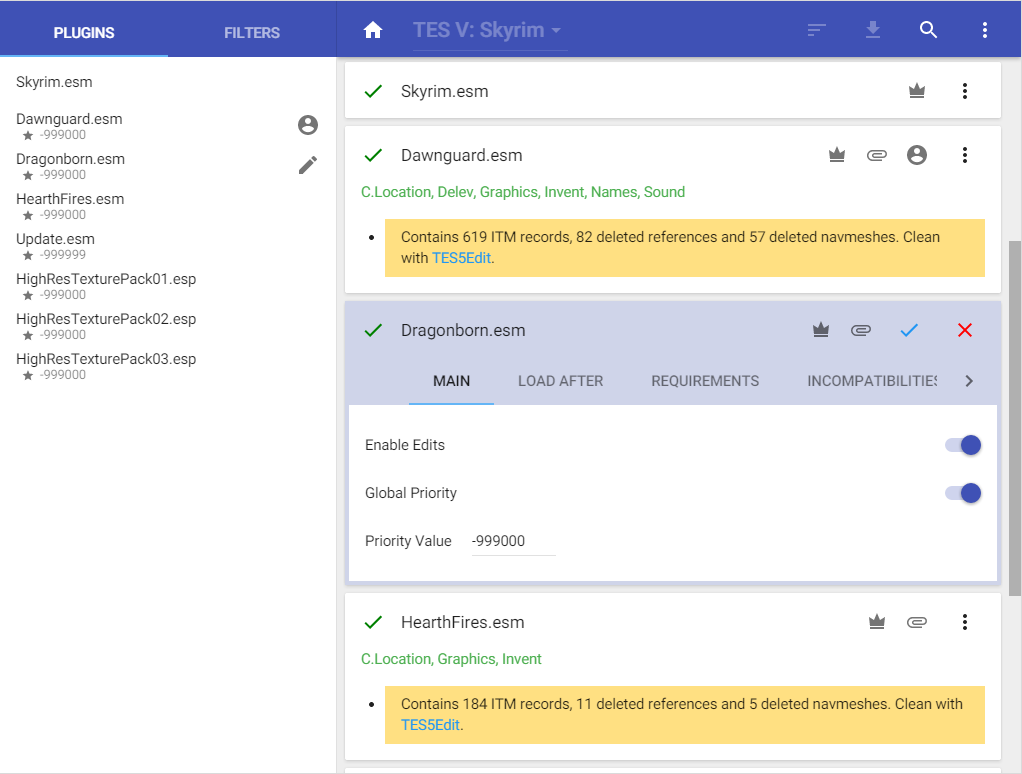
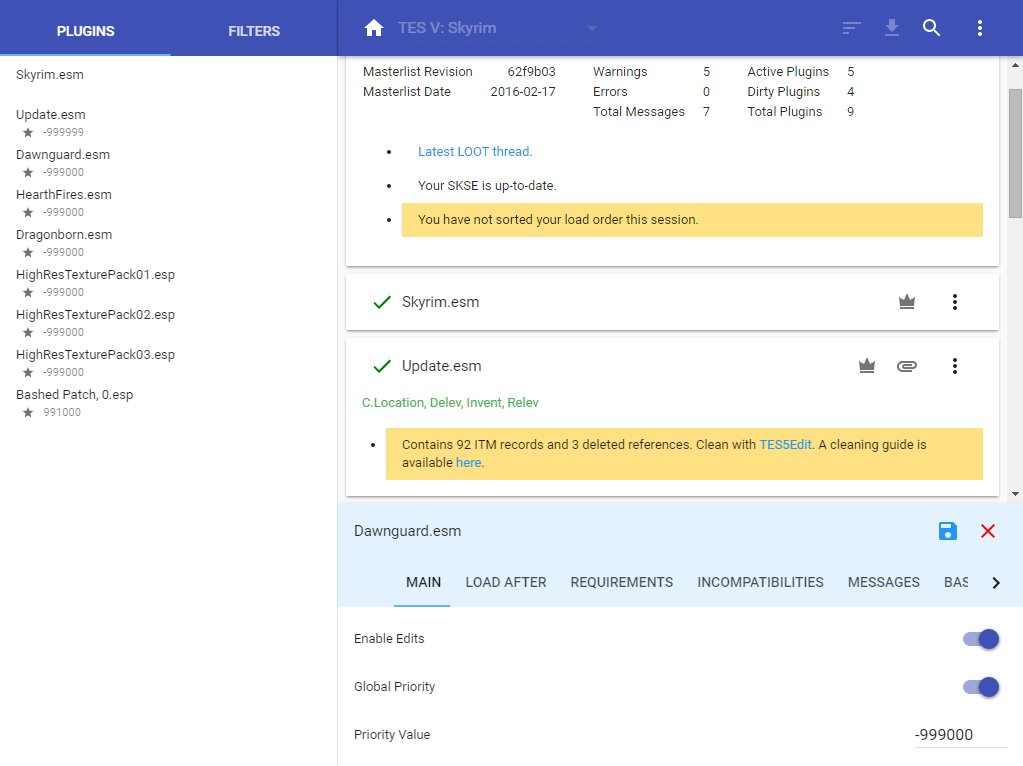
Updated the readme and its images

diff --git a/docs/LOOT Readme.html b/docs/LOOT Readme.html
@@ -159,6 +159,10 @@ var {
     color: #303F9F;
 }
 
+figure > div {
+    width: 100%;
+    overflow-x: auto;
+}
 .clipper {
     overflow: hidden;
 }
@@ -250,7 +254,7 @@ var {
 <h3 id="usage-header">The Header Bar</h3>
 
 <figure>
-    <div style="width: 100%; overflow-x: auto;">
+    <div>
         <div class="clipper" style="height: 54px; width: 1060px;">
             <img src="images/main.png">
         </div>
@@ -297,9 +301,9 @@ var {
 <h3 id="usage-cards">Plugin Cards &amp; Sidebar Items</h3>
 
 <figure>
-    <div style="width: 100%; overflow-x: auto;">
-        <div class="clipper" style="height: 235px; width: 665px;">
-            <img src="images/main.png" style="position: relative; top: -60px; left: -340px;">
+    <div>
+        <div class="clipper" style="height: 230px; width: 665px;">
+            <img src="images/main.png" style="position: relative; top: -270px; left: -340px;">
         </div>
     </div>
 <figcaption>Examples of plugin cards.</figcaption>
@@ -340,15 +344,8 @@ var {
 </ul>
 <p>The filter toggles have their states saved on quitting LOOT, and they are restored when LOOT is next launched. There are also two other filters:
 <ul>
-    <li>A content filter, located beneath the filter toggles in the <span class="button">Filters</span> sidebar tab. This hides any plugins that don't have the filter input value present in any of the following:
-    <ul>
-        <li>Filename
-        <li>Version
-        <li>CRC value
-        <li>Bash Tag suggestions
-        <li>Messages
-    </ul>
-    <li>A conflict filter that can be accessed through each plugin's menu. This filters the plugin cards displayed so that only plugins which conflict with this plugin will be visible. If this plugin loads an archive, other plugins that load archives which <em>may</em> contain conflicting resources are also displayed.</p>
+    <li>A content filter, located beneath the filter toggles in the <span class="button">Filters</span> sidebar tab. This hides any plugins that don't have the filter input value present in any of the text on their cards.
+    <li>A conflict filter that can be accessed through each plugin card's menu. This filters the plugin cards displayed so that only plugins which conflict with this plugin will be visible. If this plugin loads an archive, other plugins that load archives which <em>may</em> contain conflicting resources are also displayed.</p>
 
     Only one plugin's conflict filter can be active at any one time, so activating a second conflict filter will deactivate the first. The plugin for which the filter is currently active has its card highlighted. Sorting with a conflict filter active will first deactivate it.
 
@@ -357,9 +354,9 @@ var {
 <h3 id="usage-editing">Editing Plugin Metadata</h3>
 
 <figure>
-    <div style="width: 100%; overflow-x: auto;">
-        <div class="clipper" style="height: 295px; width: 665px;">
-            <img src="images/main.png" style="position: relative; top: -295px; left: -340px;">
+    <div>
+        <div class="clipper" style="height: 295px; width: 685px;">
+            <img src="images/main.png" style="position: relative; top: -500px; left: -340px;">
         </div>
     </div>
 <figcaption>A metadata editor panel.</figcaption>
@@ -367,9 +364,9 @@ var {
 
 <p>LOOT uses metadata to supply plugins with messages and Bash Tag suggestions, and to help it sort plugins that it can't otherwise sort correctly. Users can add to their plugins' metadata through each plugin's metadata editor panel, and plugins with user metadata are indicated with a <q>Has User Metadata</q> icon.
 
-<p>A plugin's editor panel is accessed by clicking the <q>Edit Metadata</q> item in the plugin's menu. Multiple plugins can have their editor panels open at once. While at least one editor panel is open, the plugin sidebar also displays any non-zero plugin priorities, to aid setting new priority values.
+<p>The editor panel is accessed by clicking the <q>Edit Metadata</q> item in a plugin's menu, or by double-clicking a plugin name in the sidebar. Only one plugin's metadata can be edited at a time. While the editor panel is open, the plugin sidebar also displays any non-zero plugin priorities, to aid setting new priority values. The editor can be resized by grabbing the top of the editor's header and dragging it up or down.
 
-<p>The editor's header bar is similar to the header on the front of the plugin card, minus the <q>Has User Metadata</q> icon, and with the addition of <q>Apply</q> and <q>Cancel</q> icon buttons and a row of tabs. The <span class="button">Main</span> tab contains the following inputs:
+<p>The editor's header displays the name of the plugin being edited, <q>Save Metadata</q> and <q>Cancel</q> buttons, and a row of tabs. The <span class="button">Main</span> tab's page contains the following inputs:
 
 <ul>
     <li>The <q>Enable Edits</q> toggle must be on for LOOT to use any user-added metadata, otherwise it will be ignored.
@@ -377,7 +374,7 @@ var {
     <li>The <q>Priority Value</q> input sets the plugin's priority value, which is used to modify plugin position relative to others. Plugins with higher priority values load after plugins with lower priority values. Plugins have a default priority of 0.
 </ul>
 
-<p>The other tabs contain metadata tables, which are detailed below. New rows can be added, and existing user-added rows can be removed, though rows containing metadata from the masterlist cannot. The <span class="button">Load After</span>, <span class="button">Requirements</span> and <span class="button">Incompatibilities</span> tables can have rows added by dragging and dropping plugins from the sidebar into the table area.
+<p>The other tab pages contain metadata tables, which are detailed below. New rows can be added, and existing user-added rows can be removed, though rows containing metadata from the masterlist cannot. The <span class="button">Load After</span>, <span class="button">Requirements</span> and <span class="button">Incompatibilities</span> tables can have rows added by dragging and dropping plugins from the sidebar into the table area.
 
 <table>
     <thead>
@@ -427,7 +424,7 @@ var {
 
 <h3 id="usage-settings">Editing Settings</h3>
 <figure>
-    <div style="width: 100%; overflow-x: auto;">
+    <div>
         <div class="clipper" style="height: 768px; width: 1024px;">
             <img src="images/settings.png" style="position: relative;">
         </div>
@@ -535,20 +532,48 @@ A copy of the license is included in the file named "GNU FDL v1.3.txt".</blockqu
 <p>Only program history is recorded here. A full history of masterlist changes may be viewed by browsing the GitHub repositories.
 
 <h3>0.9.0 - <i>X Y 2016</i></h3>
+<h4>Fixes</h4>
 <ul>
-    <li>Added Fallout 4 support.</li>
-    <li>Replaced references to "BSAs" with the more generic "Archives" as Fallout 4's BSA equivalents use a different file extension.</li>
-    <li>Fixed an error when attempting to redate plugins that are no longer installed.</li>
-    <li>Fixed the sorting process positioning some plugins incorrectly due to a bug involving priority values.</li>
-    <li>Changed the sorting process so that it recognises when the sorted load order is identical to the existing load order and informs the user, avoiding unnecessary filesystem interaction.</li>
-    <li>Reimplemented LOOT's settings file handling, fixing crashes due to invalid settings values and allowing missing settings to use their default values.</li>
-    <li>Reimplemented plugin version string extraction to improve its accuracy and maintainability.</li>
-    <li>Optimised plugin CRC, file and version condition evaluation.</li>
-    <li>Changed the installer so that it only creates one shortcut for LOOT in the Start menu, following Microsoft guidelines.</li>
-    <li>Updated French and Danish translations.</li>
-    <li>Refactored and improved the quality of a lot of code.</li>
-    <li>Updated Boost (1.60), CEF (3.2556.1368.g535c4fb), libespm (2.5.0), libgit2 (v0.23.4) and libloadorder (7.0.0) dependencies.</li>
-    <li>Fixed native Linux and 64-bit build errors. Such builds are unsupported and no official builds are planned.</li>
+    <li>Redate Plugins attempted to redate plugins that were missing, causing an error.</li>
+    <li>Sorting processed priority value inheritance throughout the load order incorrectly, leading to some plugins being positioned incorrectly.</li>
+    <li>The conflict filter displayed only the target plugin when enabled for the first time in a session.</li>
+    <li>The behaviour of the search functionality was inconsistent.</li>
+    <li>Duplicate messages could be displayed under certain circumstances.</li>
+    <li>Opening the metadata editor for one plugin displayed the metadata for another plugin under certain circumstances.</li>
+    <li>Changing the current game quickly could leave the UI unresponsive.</li>
+    <li>Applying a filter then scrolling the plugin card list would display some cards with no content.</li>
+    <li>Plugin cards would disappearing when jumping to a plugin card near the bottom of the load order using the sidebar.</li>
+    <li>Clicking on a disabled element in a dropdown menu would cause the menu to close.</li>
+    <li>The UI font size was too large, due to a misunderstanding of the Material Design guidelines.</li>
+    <li>Attempting to build native Linux and 64-bit executables produced errors. Such builds are unsupported and no official builds are planned.</li>
+</ul>
+<h4>Additions</h4>
+<ul>
+    <li>Support for Fallout 4.</li>
+    <li>A warning message is displayed in the General Information card if the user has not sorted their load order in the current LOOT session.</li>
+    <li>An error message is displayed in the General Information card when a cyclic interaction sorting error is encountered, and remains there until sorting is next attempted.</li>
+</ul>
+<h4>Changes</h4>
+<ul>
+    <li>References to "BSAs" have been replaced with the more generic "Archives" as Fallout 4's BSA equivalents use a different file extension.</li>
+    <li>The sorting process now recognises when the sorted load order is identical to the existing load order and informs the user, avoiding unnecessary filesystem interaction.</li>
+    <li>The metadata editor has been reimplemented as a single resizeable panel displayed below the plugin card list instead of a separate editor for each plugin card.</li>
+    <li>Editable table styling has been improved to more closely align to the Material Design guidelines.</li>
+    <li>Minor UI changes have been made to scrollbar and focus outline styling to improve accessibility.</li>
+    <li>UI interaction performance has been improved, especially when scrolling the plugin card list.</li>
+    <li>The PayPal donation link now points to the PayPal.Me service, which has a more polished UX and lower fees.</li>
+    <li>LOOT's settings file handling has been reimplemented, fixing crashes due to invalid settings values and allowing missing settings to use their default values.</li>
+    <li>Plugin version string extraction has been reimplemented, improving its accuracy and maintainability.</li>
+    <li>Plugin CRC, file and version condition evaluation has been optimised to use cached data where it exists, avoiding unnecessary filesystem interaction.</li>
+    <li>The French and Danish translations have been updated.</li>
+    <li>The installer now only creates one shortcut for LOOT in the Start menu, following Microsoft guidelines.</li>
+    <li>A lot of code has been refactored and improved to increase its quality.</li>
+    <li>The Boost (1.60), CEF (3.2556.1368.g535c4fb), libespm (2.5.0), libgit2 (0.24.0), libloadorder (7.0.0) and Polymer (1.2) dependencies have been updated to the versions given in brackets.</li>
+</ul>
+<h4>Removals</h4>
+<ul>
+    <li>The Flattr donation link.</li>
+    <li>The experimental theming support, as its implementation was incompatible with Polymer 1.2's styling mechanisms.</li>
 </ul>
 
 <h3>0.8.1 - <i>27 September 2015</i></h3>
